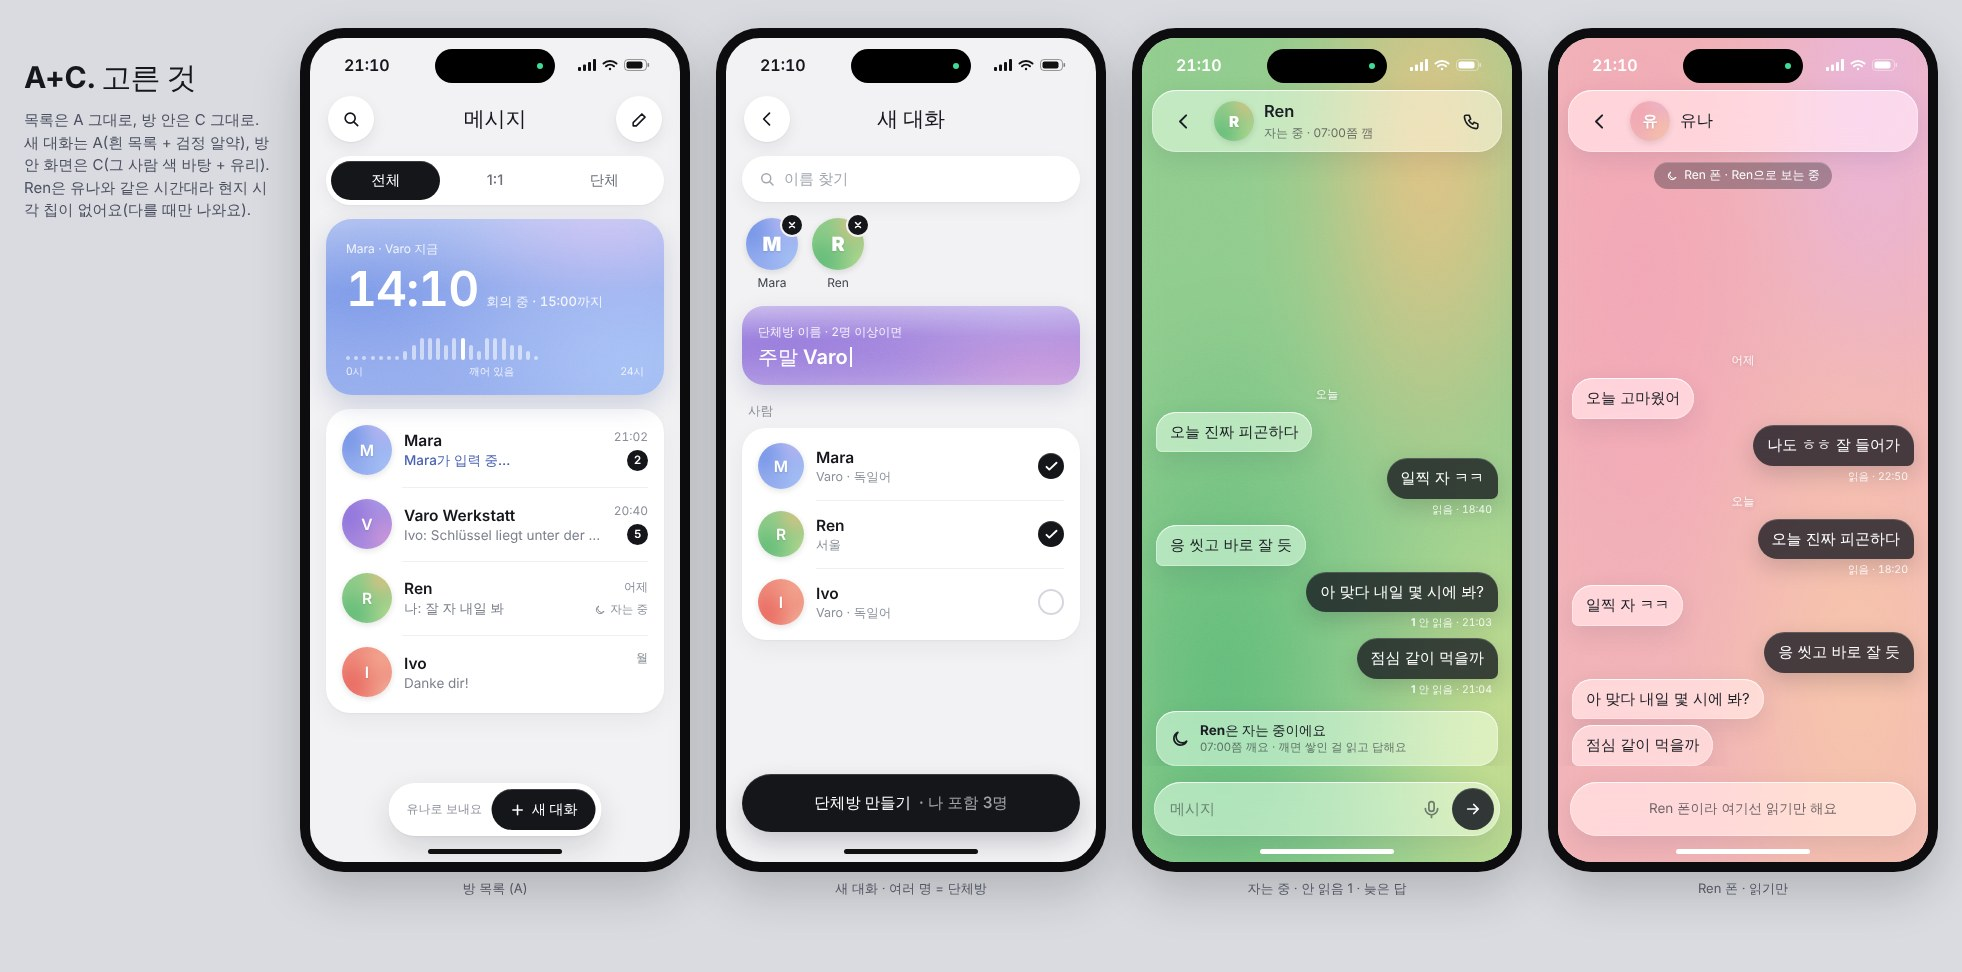
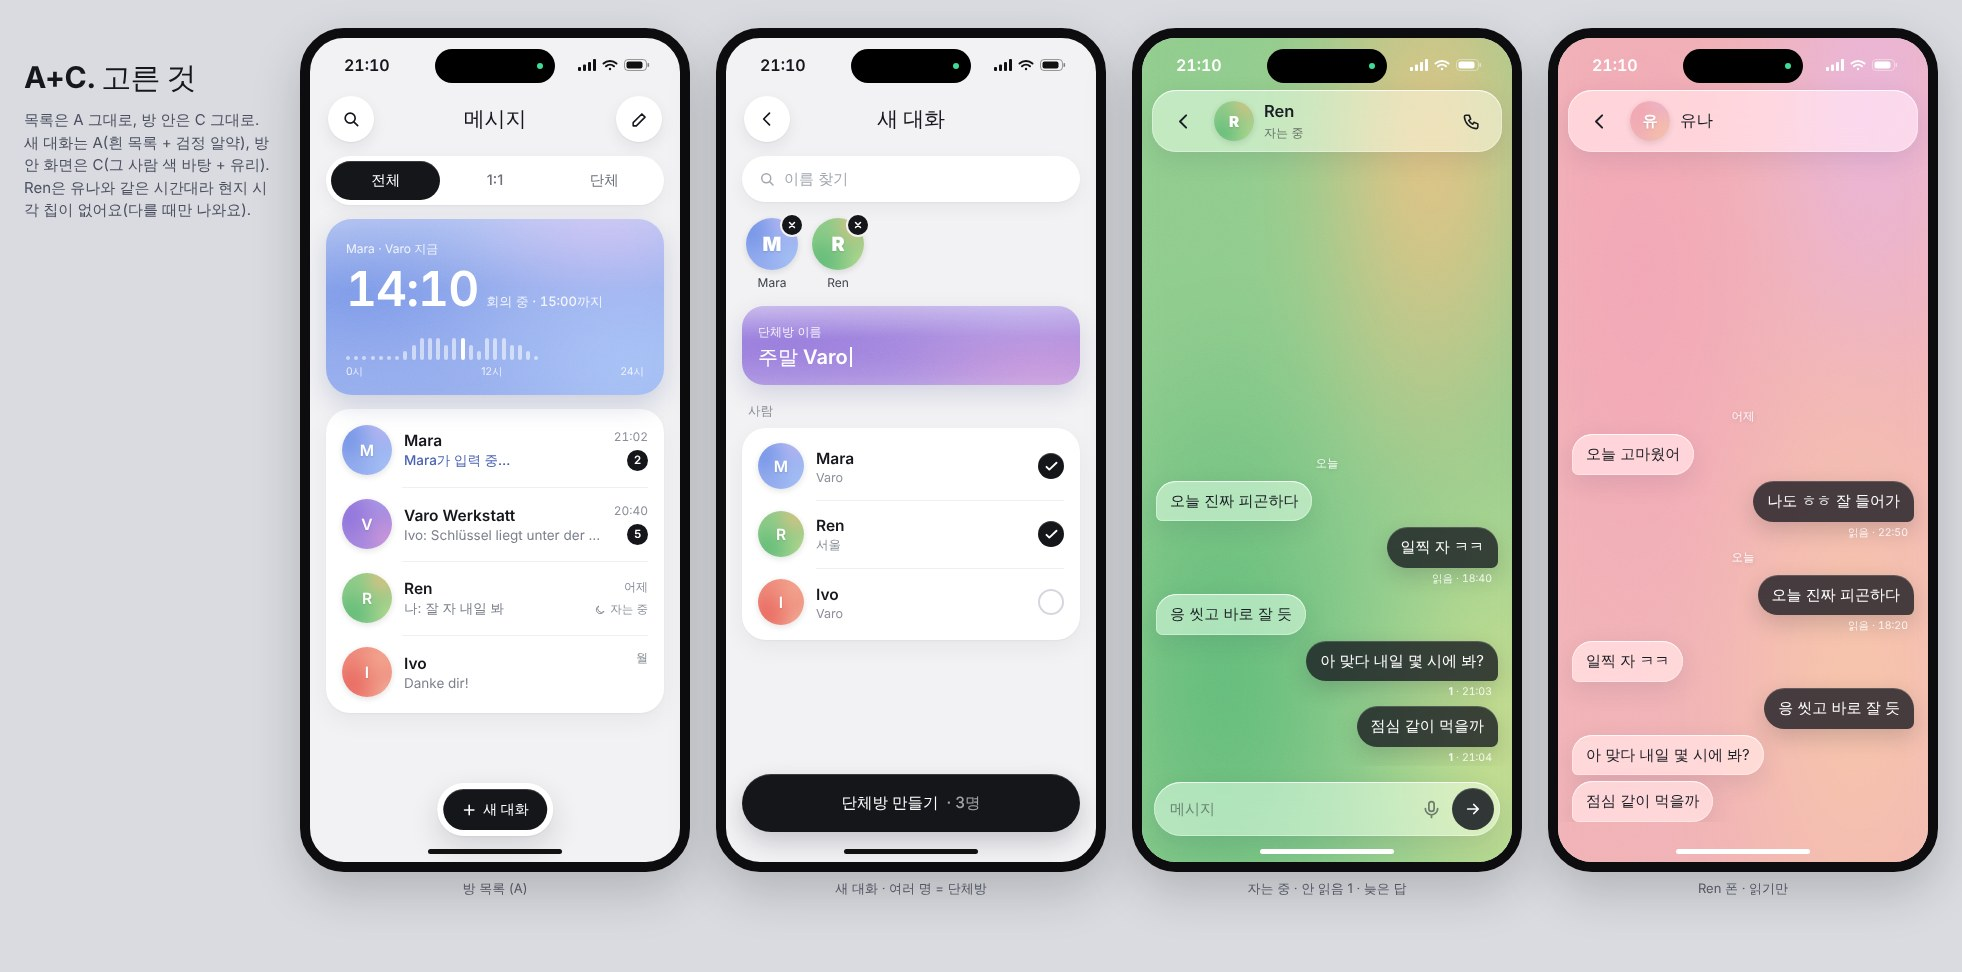
폰 2 메신저 시안: 몰입 깨는 설명 글 빼기 (깨면 읽어요 · 읽기만 해요 · 유나로 보내요 등)
Claude-Session: https://claude.ai/code/session_01TBUyc4nvbfrUF2uL1hRtAL

diff --git a/docs/mockups/phone2-messenger/mock.html b/docs/mockups/phone2-messenger/mock.html
@@ -149,9 +149,9 @@ const dots = '0 0 0 0 0 0 0 1 2 3 3 3 2 3 3 2 1 3 3 3 2 2 1 0'.split(' ').map((v
 const list = css + sbar() + `<div class="top"><span class="cb">${ic('srch', 20)}</span><h1>메시지</h1><span class="cb">${ic('pen', 19)}</span></div>
  <div style="height:118px"></div>
  <div class="seg"><b class="on">전체</b><b>1:1</b><b>단체</b></div>
- <div class="hero"><span class="blob g-mara"></span><span class="gl"></span><span class="grain"></span><div class="in"><small>Mara · Varo 지금</small><div class="big num">14:10<em>회의 중 · 15:00까지</em></div><div class="dots">${dots}</div><div class="dl"><span>0시</span><span>깨어 있음</span><span>24시</span></div></div></div>
+ <div class="hero"><span class="blob g-mara"></span><span class="gl"></span><span class="grain"></span><div class="in"><small>Mara · Varo 지금</small><div class="big num">14:10<em>회의 중 · 15:00까지</em></div><div class="dots">${dots}</div><div class="dl"><span>0시</span><span>12시</span><span>24시</span></div></div></div>
  <div class="list">${ROOMS.map(r => `<div class="rm">${orb(r.k, 50)}<div class="t"><b>${r.name}</b><p class="${r.typing ? 'ty' : ''}">${r.typing ? 'Mara가 입력 중…' : (r.who ? r.who + ': ' : r.me ? '나: ' : '') + r.last}</p></div><div class="r"><span class="tx2 num">${r.t}</span>${r.un ? `<span class="un">${r.un}</span>` : r.k === 'ren' ? `<span class="st">${ic('moon', 12, '#8a8f99')}자는 중</span>` : '<span style="height:21px"></span>'}</div></div>`).join('')}</div>
- <div class="dock"><span class="tx2">유나로 보내요</span><span class="new">${ic('plus', 16, '#fff', 2.4)}새 대화</span></div>`;
+ <div class="dock" style="padding:6px"><span class="new">${ic('plus', 16, '#fff', 2.4)}새 대화</span></div>`;
 const msg = (m, grp) => m.d ? `<div class="day">${m.d}</div>` : m.typing ? `<div class="typ"><i></i><i></i><i></i></div>` : m.state ? `<div class="scard"><span class="blob g-ivo"></span><span class="gl"></span><div class="in">${ic('plane', 20, '#fff')}<div><b style="font-size:14px">Ivo는 비행 중이에요</b><small>Varo 22:40 도착 · 내리면 읽어요</small></div></div></div>`
   : `${grp && m.f !== 'me' ? `<div class="sn" style="color:${m.f === 'ivo' ? '#c4584f' : '#4c63b4'}">${nm(m.f)}</div>` : ''}<div class="b ${m.f === 'me' ? 'me' : 'th'}">${m.x}${m.ko ? (m.fold ? `<br><span class="kof">${ic('tr', 13, '#6d7fae')}번역 보기</span>` : `<span class="ko">${m.ko}</span>`) : ''}</div>${m.read ? `<div class="mt r">${m.read === 1 ? 'Mara 읽음' : '읽음'} · <span class="num">${m.t}</span></div>` : ''}`;
 const chat = css + sbar() + `<div class="chead"><span class="blob g-mara"></span><span class="gl"></span><span class="grain"></span><div class="in"><div class="tl"><span class="gbtn">${ic('back', 20, '#fff', 2.2)}</span><span class="gbtn">${ic('call', 18, '#fff')}</span></div><h3>Mara</h3><div class="sub">${ic('clock', 13, '#fff')}Varo 14:10 · 회의 중 · 15:00까지</div></div></div>
@@ -274,12 +274,12 @@ const list = css + `<div class="bg"><span class="blob" style="background:radial-
  <div class="srch glass">${ic('srch', 18, 'rgba(30,32,40,.5)')}이름 · 대화 찾기</div>
  <div class="list">${ROOMS.map(r => `<div class="rm glass"><span style="position:relative">${orb(r.k, 50)}${r.k !== 'grp' ? `<i class="pres" style="background:${pc[P[r.k].av]}"></i>` : ''}</span><div class="t"><b>${r.name}</b><p>${r.typing ? '입력 중…' : (r.who ? r.who + ': ' : r.me ? '나: ' : '') + r.last}</p></div><div class="r"><span class="num">${r.t}</span>${r.un ? `<span class="un">${r.un}</span>` : '<span style="height:21px"></span>'}</div></div>`).join('')}</div>
  <div class="fab">${ic('plus', 24, '#fff', 2.4)}</div>`;
-const msg = (m, grp) => m.d ? `<div class="day">${m.d}</div>` : m.typing ? `<div class="typ glass"><i></i><i></i><i></i></div>` : m.state ? `<div class="stl glass">${ic('plane', 20, '#1b1d24')}<div><b>Ivo는 비행 중</b><small>Varo 22:40 도착 · 내리면 읽어요</small></div></div>`
-  : `${grp && m.f !== 'me' ? `<div class="sn">${nm(m.f)}</div>` : ''}<div class="b ${m.f === 'me' ? 'me' : 'th glass'}">${m.x}${m.ko ? (m.fold ? `<br><span class="kof" style="color:#4c5ea8">${ic('tr', 13, '#4c5ea8')}번역 보기</span>` : `<span class="ko">${m.ko}</span>`) : ''}</div>${m.read ? `<div class="rd">${m.read === 1 ? '<b>1</b> 안 읽음 · ' : '읽음 · '}<span class="num">${m.t}</span></div>` : ''}`;
+const msg = (m, grp) => m.d ? `<div class="day">${m.d}</div>` : m.typing ? `<div class="typ glass"><i></i><i></i><i></i></div>` : m.state ? ''
+  : `${grp && m.f !== 'me' ? `<div class="sn">${nm(m.f)}</div>` : ''}<div class="b ${m.f === 'me' ? 'me' : 'th glass'}">${m.x}${m.ko ? (m.fold ? `<br><span class="kof" style="color:#4c5ea8">${ic('tr', 13, '#4c5ea8')}번역 보기</span>` : `<span class="ko">${m.ko}</span>`) : ''}</div>${m.read ? `<div class="rd">${m.read === 1 ? '<b>1</b> · ' : '읽음 · '}<span class="num">${m.t}</span></div>` : ''}`;
 const head = (k, name, sub) => `<div class="ct glass"><span class="gb">${ic('back', 21, '#1b1d24', 2.2)}</span>${orb(k, 40)}<div class="nm"><b>${name}</b><span>${sub}</span></div><span class="gb">${ic('call', 19, '#1b1d24')}</span></div>`;
 const inp = `<div class="inp glass"><span>메시지</span>${ic('mic', 21, 'rgba(30,32,40,.55)')}<span class="sendb">${ic('send', 18, '#fff', 2.3)}</span></div>`;
 const chat = css + bg('g-mara') + sbar(true) + head('mara', 'Mara', '회의 중 · 15:00까지') + `<div class="lt"><span>${ic('clock', 12, '#fff')}Mara 현지 14:10</span></div><div class="msgs">${CHAT.map(m => msg(m)).join('')}</div>` + inp;
-const grp = css + bg('g-grp') + sbar(true) + head('grp', 'Varo Werkstatt', 'Mara · Ivo · 나') + `<div class="lt"><span>${ic('clock', 12, '#fff')}Varo 14:10</span></div><div class="msgs">${GRP.map(m => msg(m, true)).join('')}</div>` + inp;
+const grp = css + bg('g-grp') + sbar(true) + head('grp', 'Varo Werkstatt', 'Mara · Ivo 비행 중 · 나') + `<div class="lt"><span>${ic('clock', 12, '#fff')}Varo 14:10</span></div><div class="msgs">${GRP.map(m => msg(m, true)).join('')}</div>` + inp;
 row('C', '유리 전체', '화면 바탕 전체가 그 사람 색 오로라(목록은 여러 색).<br>방 · 말풍선 · 입력칸이 다 반투명 유리. 아바타 옆 점이 지금 상태(바쁨 · 비행 · 잠).<br>단체방 안 읽음은 숫자(1).', [phone('C wht', list, '방 목록'), phone('C wht', chat, '1:1 · 입력 중 · 번역 접기'), phone('C wht', grp, '단체방 · 비행 중')]);
 G.C = { css, msg, head, inp, bg };
 }
@@ -382,18 +382,18 @@ const pick = css + G.A.css + sbar() + `<div class="top"><span class="cb">${ic('b
  <div style="height:118px"></div>
  <div class="srch">${ic('srch', 18, '#a2a7b0')}이름 찾기</div>
  <div class="picked">${['mara', 'ren'].map(k => `<span class="pk">${orb(k, 52)}<span class="x">${ic('plus', 12, '#fff', 3).replace('<path', '<path transform="rotate(45 12 12)"')}</span>${P[k].n}</span>`).join('')}</div>
- <div class="gname"><span class="blob g-grp"></span><span class="gl"></span><span class="grain"></span><div class="in"><small>단체방 이름 · 2명 이상이면</small><b>주말 Varo<u></u></b></div></div>
+ <div class="gname"><span class="blob g-grp"></span><span class="gl"></span><span class="grain"></span><div class="in"><small>단체방 이름</small><b>주말 Varo<u></u></b></div></div>
  <div class="sec">사람</div>
- <div class="list">${[['mara', 'Varo · 독일어', 1], ['ren', '서울', 1], ['ivo', 'Varo · 독일어', 0]].map(([k, sub, on]) => `<div class="rm">${orb(k, 46)}<div class="t"><b>${P[k].n}</b><p>${sub}</p></div><span class="ck ${on ? 'on' : ''}">${on ? ic('chk', 15, '#fff', 3) : ''}</span></div>`).join('')}</div>
- <div class="go">단체방 만들기 <em>· 나 포함 3명</em></div>`;
+ <div class="list">${[['mara', 'Varo', 1], ['ren', '서울', 1], ['ivo', 'Varo', 0]].map(([k, sub, on]) => `<div class="rm">${orb(k, 46)}<div class="t"><b>${P[k].n}</b><p>${sub}</p></div><span class="ck ${on ? 'on' : ''}">${on ? ic('chk', 15, '#fff', 3) : ''}</span></div>`).join('')}</div>
+ <div class="go">단체방 만들기 <em>· 3명</em></div>`;
 const LATE = [{ d: '오늘' }, { f: 'ren', t: '18:20', x: '오늘 진짜 피곤하다' }, { f: 'me', t: '18:40', x: '일찍 자 ㅋㅋ', read: true }, { f: 'ren', t: '19:02', x: '응 씻고 바로 잘 듯' },
   { f: 'me', t: '21:03', x: '아 맞다 내일 몇 시에 봐?', read: 1 }, { f: 'me', t: '21:04', x: '점심 같이 먹을까', read: 1 }, { sleep: 1 }];
-const msgL = m => m.sleep ? `<div class="stl glass">${ic('moon', 20, '#1b1d24')}<div><b>Ren은 자는 중이에요</b><small>07:00쯤 깨요 · 깨면 쌓인 걸 읽고 답해요</small></div></div>` : C.msg(m);
-const late = css + C.css + C.bg('g-ren') + sbar(true) + C.head('ren', 'Ren', '자는 중 · 07:00쯤 깸') + `<div class="msgs" style="top:130px">${LATE.map(msgL).join('')}</div>` + C.inp;
+const msgL = m => m.sleep ? '' : C.msg(m);
+const late = css + C.css + C.bg('g-ren') + sbar(true) + C.head('ren', 'Ren', '자는 중') + `<div class="msgs" style="top:130px">${LATE.map(msgL).join('')}</div>` + C.inp;
 // Ren 폰: Ren 계정으로 본 같은 방. Ren 말이 오른쪽(진한 유리), 유나 말이 왼쪽. 입력칸 없음
 const RO = [{ d: '어제' }, { f: 'yuna', t: '22:41', x: '오늘 고마웠어' }, { f: 'me', t: '22:50', x: '나도 ㅎㅎ 잘 들어가', read: true }, { d: '오늘' }, { f: 'me', t: '18:20', x: '오늘 진짜 피곤하다', read: true }, { f: 'yuna', t: '18:40', x: '일찍 자 ㅋㅋ' }, { f: 'me', t: '19:02', x: '응 씻고 바로 잘 듯' }, { f: 'yuna', t: '21:03', x: '아 맞다 내일 몇 시에 봐?' }, { f: 'yuna', t: '21:04', x: '점심 같이 먹을까' }];
 const msgR = m => m.f === 'yuna' ? `<div class="b th glass">${m.x}</div>` : m.f === 'me' ? `<div class="b me">${m.x}</div>${m.read ? `<div class="rd">읽음 · <span class="num">${m.t}</span></div>` : ''}` : C.msg(m);
-const ro = css + C.css + C.bg('g-yuna') + sbar(true) + C.head('yuna', '유나', '').replace(`<span class="gb">${ic('call', 19, '#1b1d24')}</span>`, '<span style="width:42px"></span>') + `<div class="who"><span>${ic('moon', 12, '#fff')}Ren 폰 · Ren으로 보는 중</span></div><div class="msgs" style="top:160px">${RO.map(msgR).join('')}</div><div class="ro glass">Ren 폰이라 여기선 읽기만 해요</div>`;
+const ro = css + C.css + C.bg('g-yuna') + sbar(true) + C.head('yuna', '유나', '').replace(`<span class="gb">${ic('call', 19, '#1b1d24')}</span>`, '<span style="width:42px"></span>') + `<div class="msgs" style="top:130px;bottom:40px">${RO.map(msgR).join('')}</div>`;
 row('A+C', '고른 것', '목록은 A 그대로, 방 안은 C 그대로.<br>새 대화는 A(흰 목록 + 검정 알약), 방 안 화면은 C(그 사람 색 바탕 + 유리).<br>Ren은 유나와 같은 시간대라 현지 시각 칩이 없어요(다를 때만 나와요).', [phone('A', A.list, '방 목록 (A)'), phone('A N', pick, '새 대화 · 여러 명 = 단체방'), phone('C wht', late, '자는 중 · 안 읽음 1 · 늦은 답'), phone('C wht', ro, 'Ren 폰 · 읽기만')]);
 }
 
